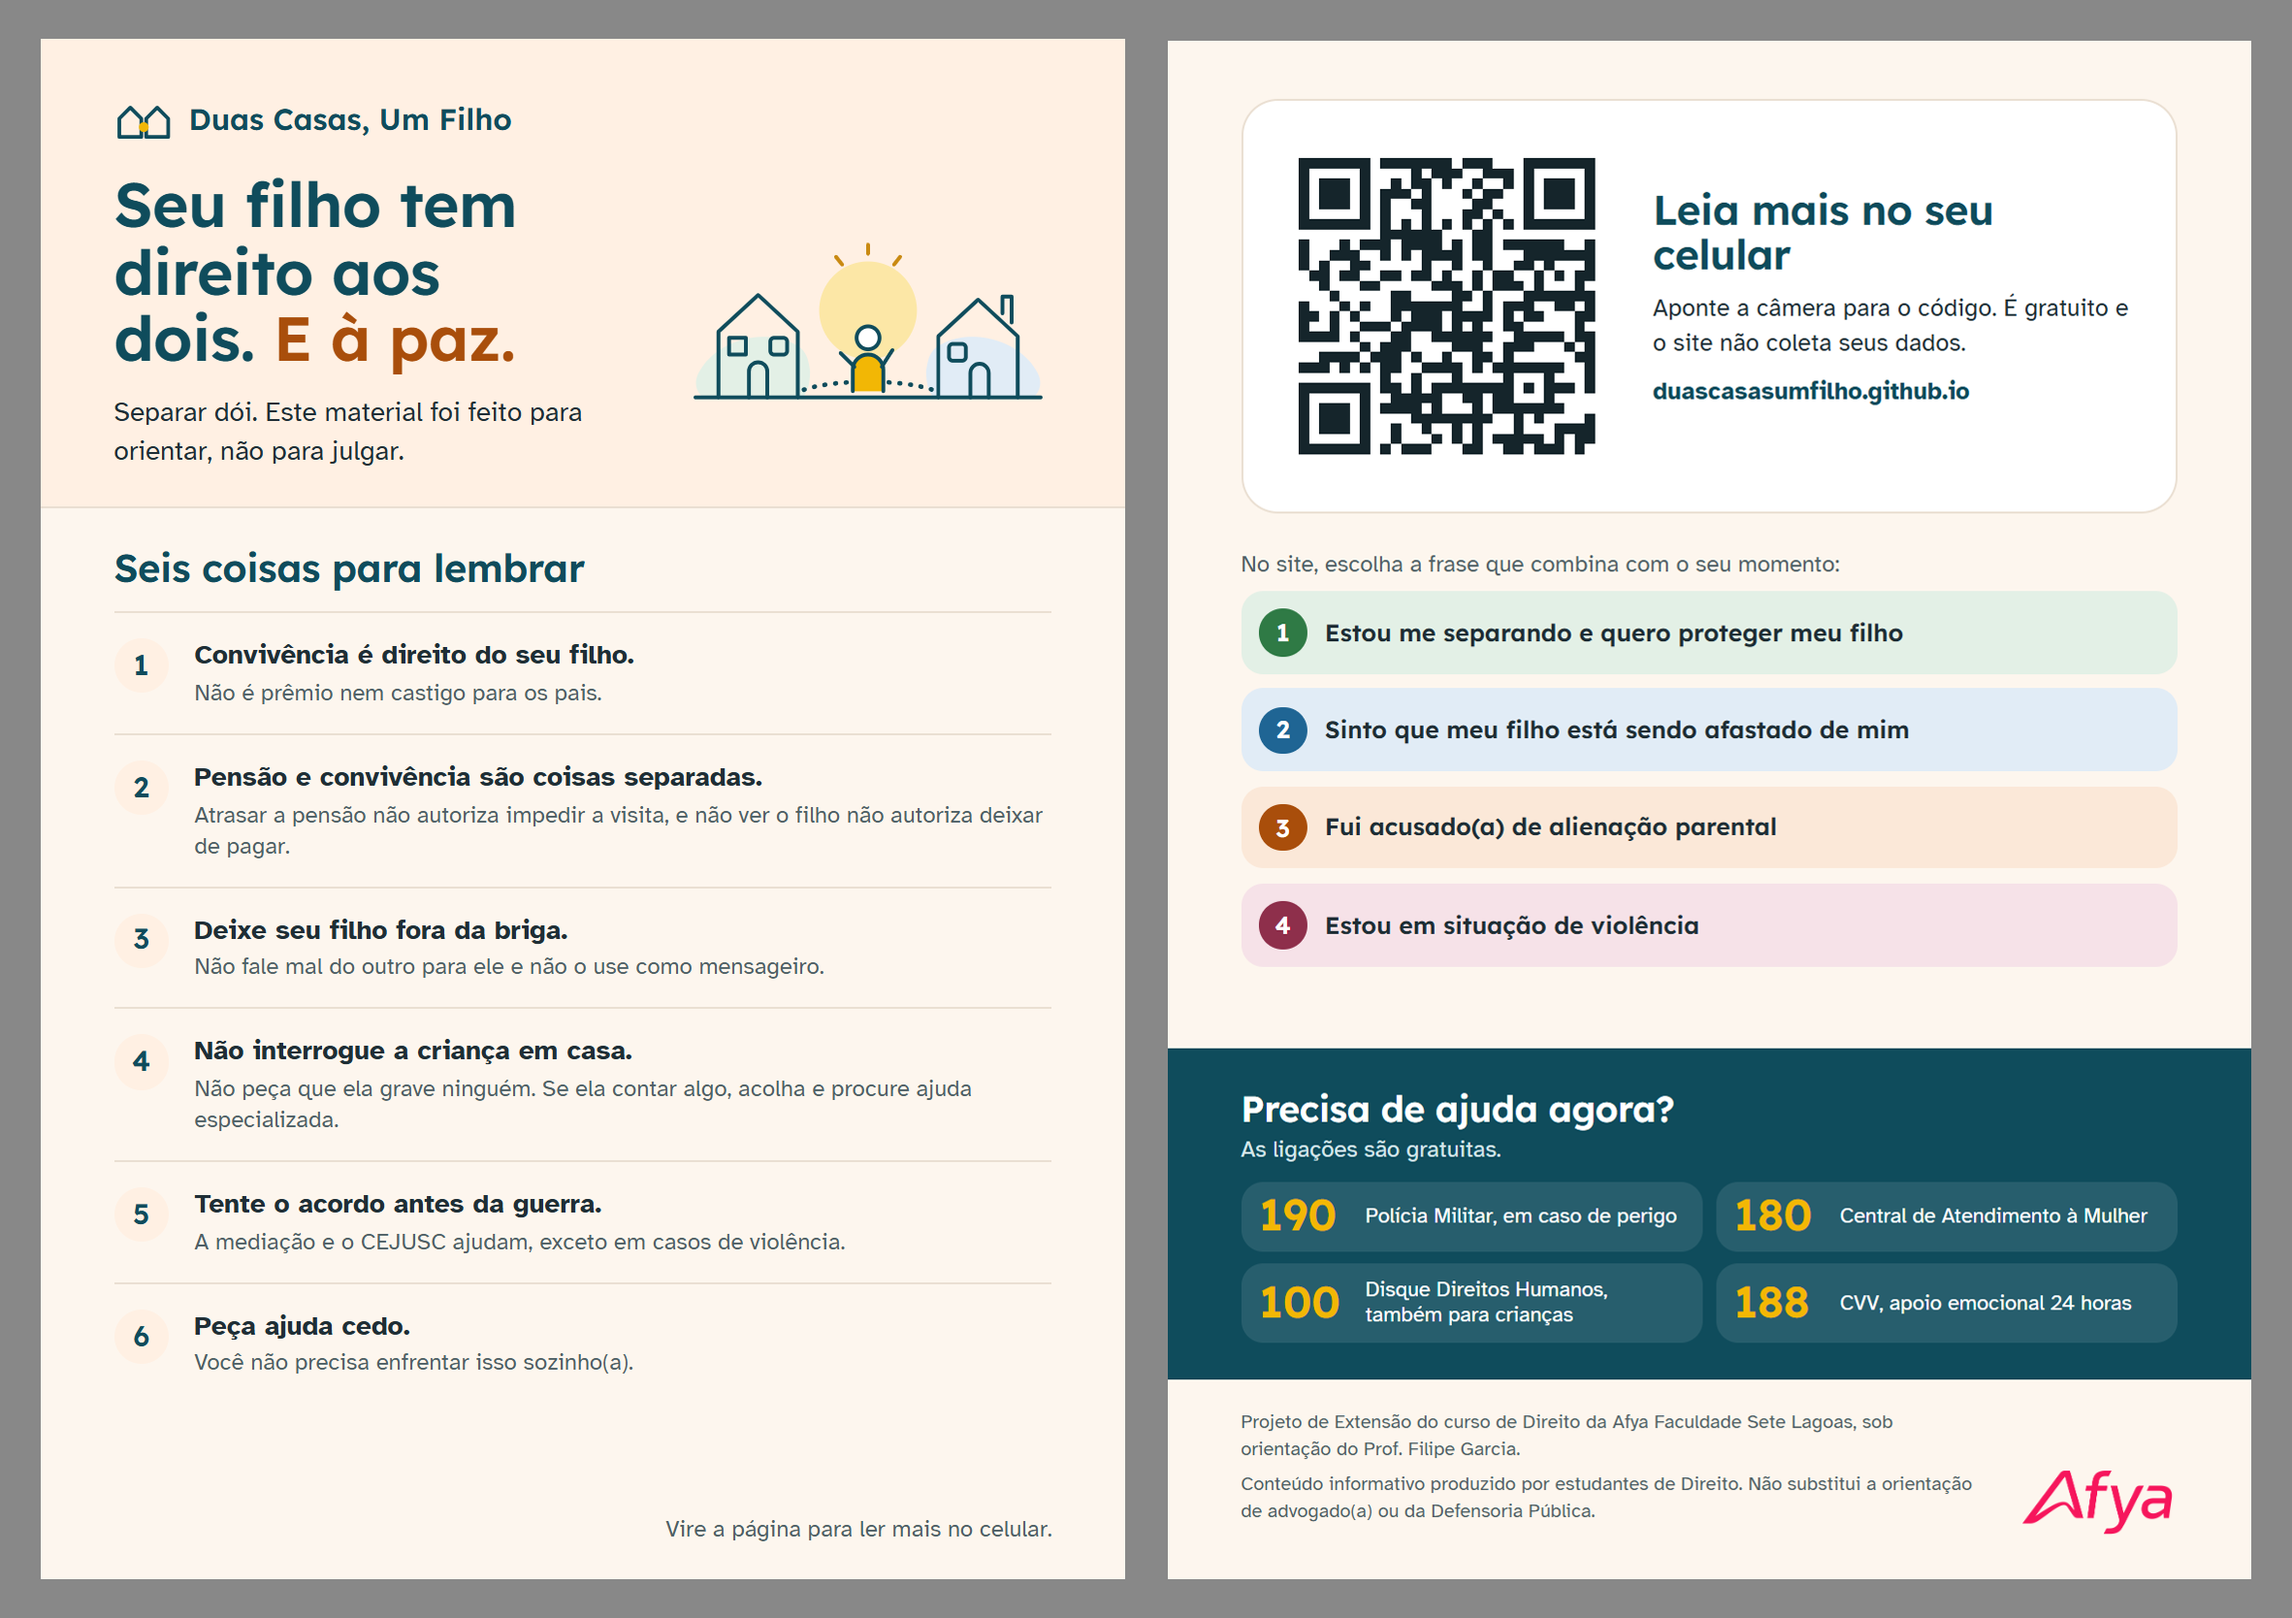
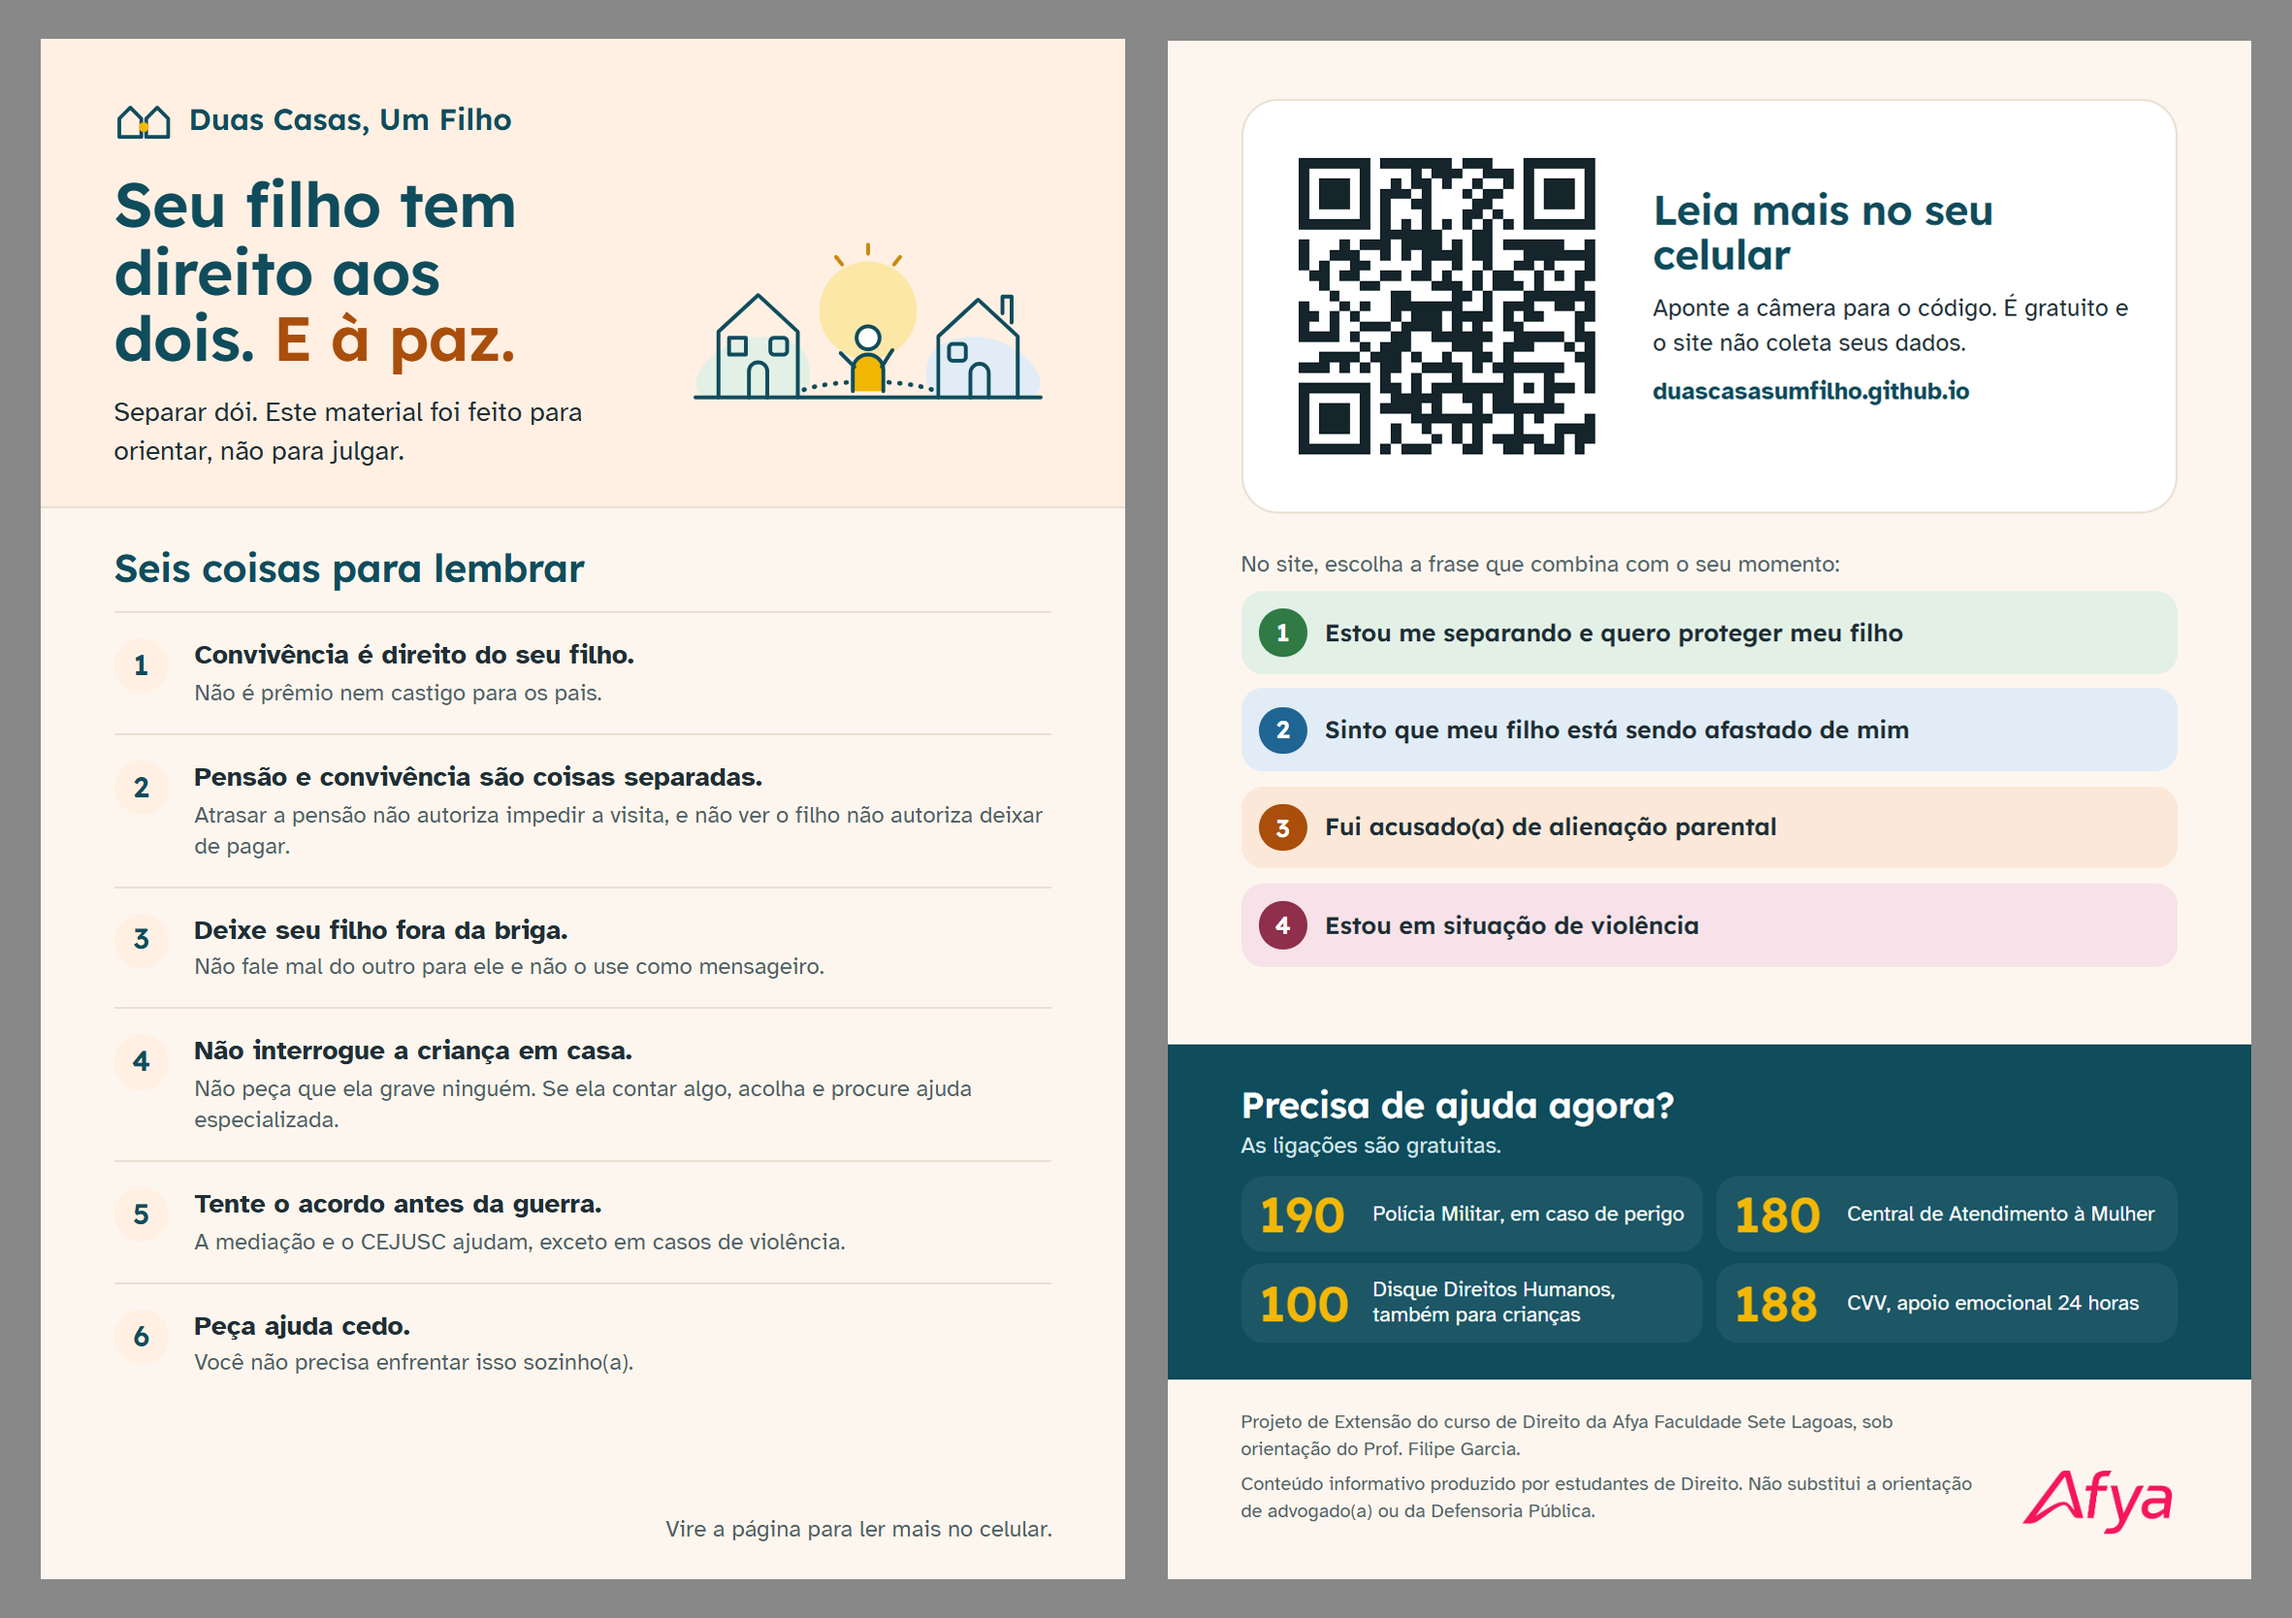
Folder: números de emergência com contraste de letra grande

Changed region(s): [[0.5252, 0.6547, 0.7414, 0.8417], [0.7414, 0.717, 0.9268, 0.8417]]

diff --git a/ferramentas/folder.html b/ferramentas/folder.html
@@ -70,8 +70,9 @@
   .emergencia h2 { font-size: 14pt; margin: 0 0 0.5mm; color: #fff; }
   .emergencia > p { margin: 0 0 2.5mm; font-size: 9pt; color: var(--suave-campo); }
   .tels { display: grid; grid-template-columns: 1fr 1fr; gap: 1.6mm; }
-  .tel { display: flex; align-items: center; gap: 2.5mm; padding: 1.8mm 2.5mm; border-radius: 3mm; background: rgb(255 255 255 / 0.1); }
-  .tel strong { flex: none; min-width: 12mm; font: 600 17pt/1 "Lexend", sans-serif; color: var(--sol); }
+  .tel { display: flex; align-items: center; gap: 2.5mm; padding: 1.8mm 2.5mm; border-radius: 3mm; background: rgb(255 255 255 / 0.06); }
+  /* 18pt ou mais conta como letra grande (contraste mínimo de 3 para 1) */
+  .tel strong { flex: none; min-width: 13mm; font: 600 19pt/1 "Lexend", sans-serif; color: var(--sol); }
   .tel span { font-size: 8.2pt; line-height: 1.25; }
   .creditos { padding: 4mm 10mm 6mm; display: grid; grid-template-columns: 1fr 22mm; gap: 5mm; align-items: end; font-size: 7.5pt; line-height: 1.4; color: var(--suave); }
   .creditos p { margin: 0 0 1.2mm; }
